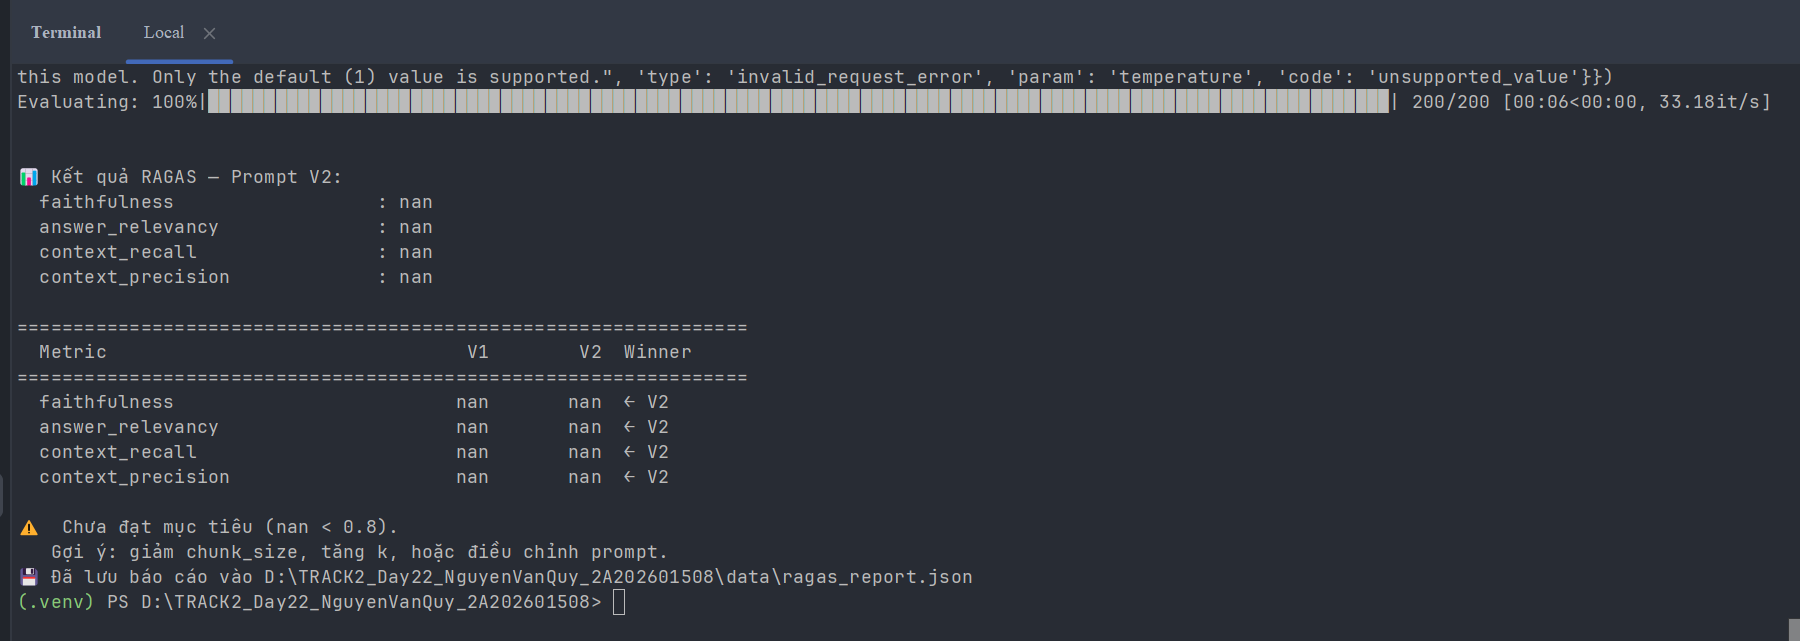
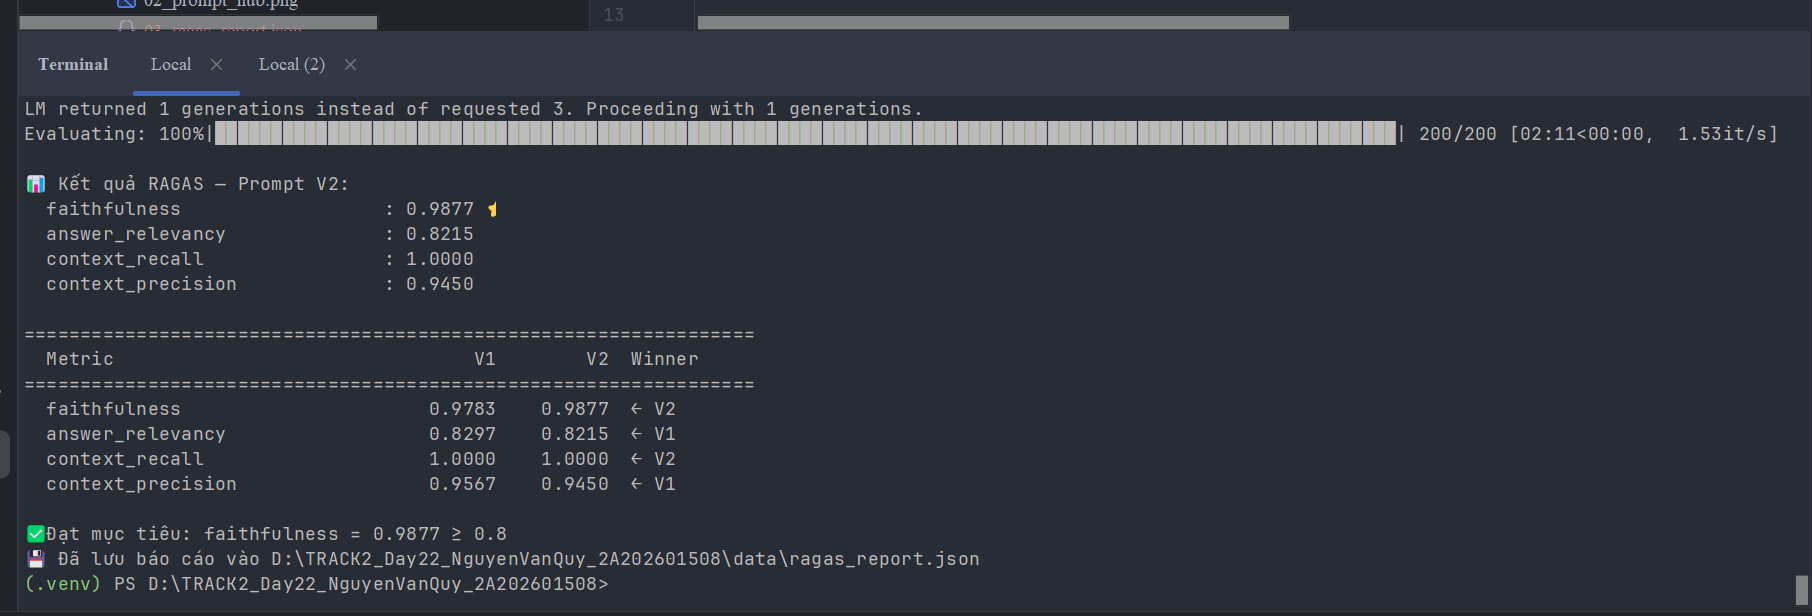
Complete Day 22: LangSmith, Prompt Hub, RAGAS and Guardrails AI

diff --git a/src/utils/llm_factory.py b/src/utils/llm_factory.py
@@ -36,6 +36,15 @@ def get_llm(provider: str = None, temperature: float = 0.0):
 
     if provider == "openai":
         from langchain_openai import ChatOpenAI
+
+        class RobustChatOpenAI(ChatOpenAI):
+            def _get_request_payload(self, *args, **kwargs):
+                payload = super()._get_request_payload(*args, **kwargs)
+                # Xử lý các model không hỗ trợ custom temperature (chỉ hỗ trợ default = 1)
+                if self.model_name and ("gpt-5" in self.model_name or "o1" in self.model_name or "o3" in self.model_name):
+                    payload.pop("temperature", None)
+                return payload
+
         kwargs = {
             "model": config.OPENAI_MODEL,
             "api_key": config.OPENAI_API_KEY,
@@ -43,7 +52,7 @@ def get_llm(provider: str = None, temperature: float = 0.0):
         }
         if config.OPENAI_BASE_URL:
             kwargs["base_url"] = config.OPENAI_BASE_URL
-        return ChatOpenAI(**kwargs)
+        return RobustChatOpenAI(**kwargs)
 
     elif provider == "gemini":
         from langchain_google_genai import ChatGoogleGenerativeAI
@@ -71,8 +80,7 @@ def get_llm(provider: str = None, temperature: float = 0.0):
 
     elif provider == "openrouter":
         # OpenRouter dùng OpenAI-compatible API
-        from langchain_openai import ChatOpenAI
-        return ChatOpenAI(
+        return RobustChatOpenAI(
             model=config.OPENROUTER_MODEL,
             api_key=config.OPENROUTER_API_KEY,
             base_url=config.OPENROUTER_BASE_URL,
